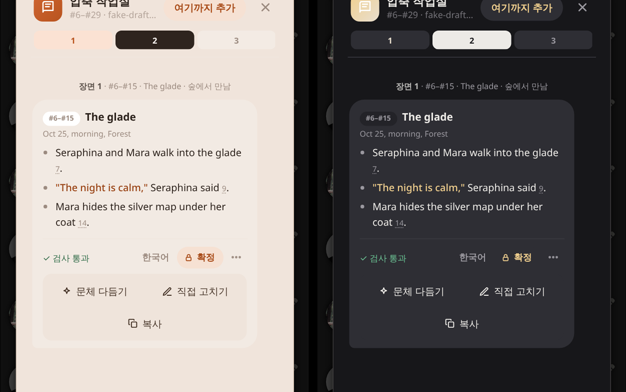
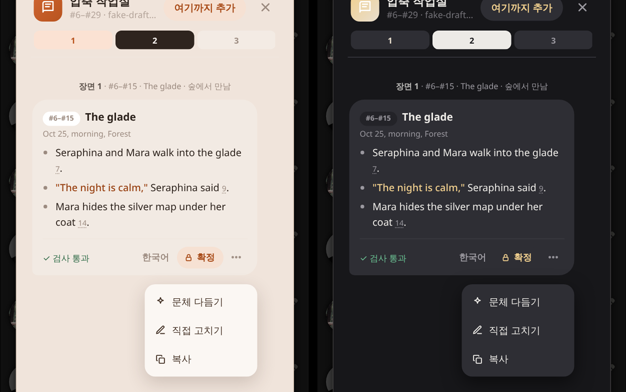
3.169.16: 작업실 ⋯ back to a menu that drops down, now below the card instead of over its edge (replaces the in-card row)
Claude-Session: https://claude.ai/code/session_01TBUyc5NesEMBcPKHWzpL6W

diff --git a/src/studio.js b/src/studio.js
@@ -462,10 +462,8 @@ export async function openStudio() {
             const backM = backBtn ? `<button type="button" class="na_st_unfix" data-i="${i}">${svgA(ICO.back, 14, 2.2)}고치기 전으로</button>` : '';
             const pen = `<button type="button" class="na_st_pen" data-i="${i}" title="직접 고치기 (답을 세 번 터치해도 돼요)">${svgA(ICO.pen, 14, 2.2)}직접 고치기</button>`;
             const copy = `<button type="button" class="na_st_copy" data-i="${i}" title="이 답의 섹션을 아카이브 모양으로 복사 (출처 번호는 빼고)">${svgA(ICO.copy, 14, 2.2)}복사</button>`;
-            const more = `<span class="na_st_more"><button type="button" class="na_st_dots" aria-label="더 보기" title="더 보기">${svgA('<circle cx="5" cy="12" r="1"/><circle cx="12" cy="12" r="1"/><circle cx="19" cy="12" r="1"/>', 16, 2.8)}</button></span>`;
-            // ⋯ opens these inside the card, under the row, pushing nothing out of place
-            const menuRow = `<div class="na_st_amenu" hidden>${fixM}${backM}${polish}${pen}${copy}</div>`;
-            return `<div class="na_st_bub">${blocks.map(x => cardHtml(x, ko ? koMap : null)).join('<hr>')}<div class="na_st3_bar"><span class="na_st3_tags">${tags}</span><span class="na_st3_right">${koBtn}${locks}${more}</span></div>${menuRow}</div>`;
+            const more = `<span class="na_st_more"><button type="button" class="na_st_dots" aria-label="더 보기" title="더 보기">${svgA('<circle cx="5" cy="12" r="1"/><circle cx="12" cy="12" r="1"/><circle cx="19" cy="12" r="1"/>', 16, 2.8)}</button><span class="na_st_amenu" hidden>${fixM}${backM}${polish}${pen}${copy}</span></span>`;
+            return `<div class="na_st_bub">${blocks.map(x => cardHtml(x, ko ? koMap : null)).join('<hr>')}<div class="na_st3_bar"><span class="na_st3_tags">${tags}</span><span class="na_st3_right">${koBtn}${locks}${more}</span></div></div>`;
         }).join('') + (busy ? '<div class="na_st_bub na_st_typing"><i></i><i></i><i></i><small>쓰는 중 · 이 탭에 있어야 받아요</small></div>' : '');
         const $log = $root.find('.na_st_log');
         const atEnd = $log[0] ? $log[0].scrollHeight - $log[0].scrollTop - $log[0].clientHeight < 80 : true;
@@ -646,8 +644,8 @@ export async function openStudio() {
     };
     $root.on('click', '.na_st_pen', function () { startEdit(Number(this.dataset.i)); });
     // ⋯ opens the answer's small menu (upward, right-aligned); any other tap, or picking from it, closes it
-    $root.on('click', '.na_st_dots', function (e) { e.stopPropagation(); const $m = $(this).closest('.na_st_bub').find('.na_st_amenu'), open = $m.prop('hidden'); $root.find('.na_st_amenu').prop('hidden', true); $m.prop('hidden', !open); });
-    $root.on('click', e => { if (!$(e.target).closest('.na_st_more, .na_st_amenu').length) $root.find('.na_st_amenu').prop('hidden', true); });
+    $root.on('click', '.na_st_dots', function (e) { e.stopPropagation(); const $m = $(this).next('.na_st_amenu'), open = $m.prop('hidden'); $root.find('.na_st_amenu').prop('hidden', true); $m.prop('hidden', !open); });
+    $root.on('click', e => { if (!$(e.target).closest('.na_st_more').length) $root.find('.na_st_amenu').prop('hidden', true); });
     $root.on('click', '.na_st_amenu button', () => setTimeout(() => $root.find('.na_st_amenu').prop('hidden', true), 0));
     // three quick taps on an answer open it too (not on its buttons, numbers or quotes)
     $root.on('click', '.na_st_bub', function (e) {

diff --git a/style.css b/style.css
@@ -7925,10 +7925,10 @@ body:is(.na_darkui, :not(.na_darkui)) dialog.popup .na_st3_right > button.na_st_
 body.na_darkui dialog.popup .na_st3_right > button.na_st_lk.on:not(#na_x) { color: #13261B !important; }
 .na_st_more { position: relative; display: inline-flex; }
 body:is(.na_darkui, :not(.na_darkui)) dialog.popup button.na_st_dots:not(#na_x) { display: inline-flex !important; align-items: center; justify-content: center; width: 28px !important; height: 28px !important; min-height: 0 !important; margin: 0 !important; padding: 0 !important; border: 0 !important; border-radius: 999px !important; background: transparent !important; box-shadow: none !important; color: var(--st-dim) !important; cursor: pointer; }
-.na_st_amenu { display: flex; flex-wrap: wrap; gap: 4px; margin-top: 8px; padding: 4px; border-radius: 12px; }
+.na_st_amenu { position: absolute; right: -14px; top: calc(100% + 22px); z-index: 6; display: flex; flex-direction: column; min-width: 150px; padding: 4px; border-radius: 14px; box-shadow: 0 8px 24px rgba(70, 52, 40, 0.2); }
 .na_st_amenu[hidden] { display: none; }
-body:not(.na_darkui) .na_st_amenu { background: #EFE4DB; }
-body.na_darkui .na_st_amenu { background: #2E2E34; }
-body:is(.na_darkui, :not(.na_darkui)) dialog.popup .na_st_amenu > button:not(#na_x) { display: flex !important; align-items: center; gap: 6px; flex: 1 1 auto; justify-content: center; width: auto !important; min-height: 0 !important; height: auto !important; margin: 0 !important; padding: 9px 10px !important; border: 0 !important; border-radius: 10px !important; background: transparent !important; box-shadow: none !important; color: var(--na-ink, inherit) !important; font: inherit; font-size: 13px !important; font-weight: 500 !important; text-align: left; white-space: nowrap; cursor: pointer; }
-.na_st_amenu > button:hover { background: rgba(0, 0, 0, 0.05) !important; }
+body:not(.na_darkui) .na_st_amenu { background: #FBF7F3; }
+body.na_darkui .na_st_amenu { background: #2E2E34; box-shadow: 0 8px 24px rgba(0, 0, 0, 0.5); }
+body:is(.na_darkui, :not(.na_darkui)) dialog.popup .na_st_amenu > button:not(#na_x) { display: flex !important; align-items: center; gap: 8px; width: 100% !important; min-height: 0 !important; height: auto !important; margin: 0 !important; padding: 9px 10px !important; border: 0 !important; border-radius: 10px !important; background: transparent !important; box-shadow: none !important; color: var(--na-ink, inherit) !important; font: inherit; font-size: 13px !important; font-weight: 500 !important; text-align: left; white-space: nowrap; cursor: pointer; }
+.na_st_amenu > button:hover { background: rgba(0, 0, 0, 0.04) !important; }
 .na_st_bub:has(.na_st_amenu:not([hidden])) { position: relative; z-index: 3; }

diff --git a/src/core.js b/src/core.js
@@ -12,7 +12,7 @@ import { parseSections } from './sections.js';
 
 export const MODULE = 'narrative_archive';
 export const PROMPT_KEY = 'narrative_archive_injection';
-export const VERSION = '3.169.15';
+export const VERSION = '3.169.16';
 export const SNAPSHOT_MAX = 5;
 export const SNAPSHOT_MAX_CHARS = 2_000_000;
 
